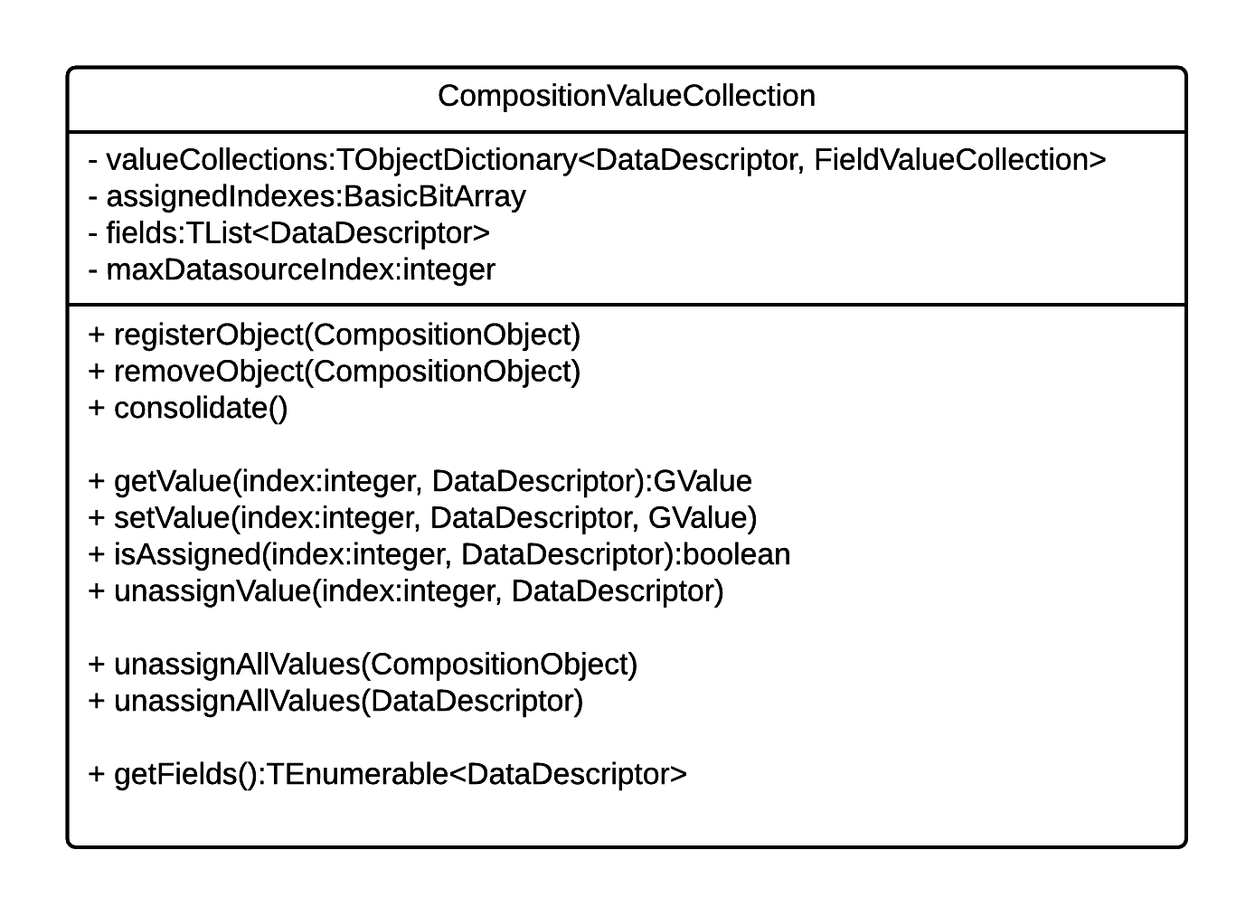
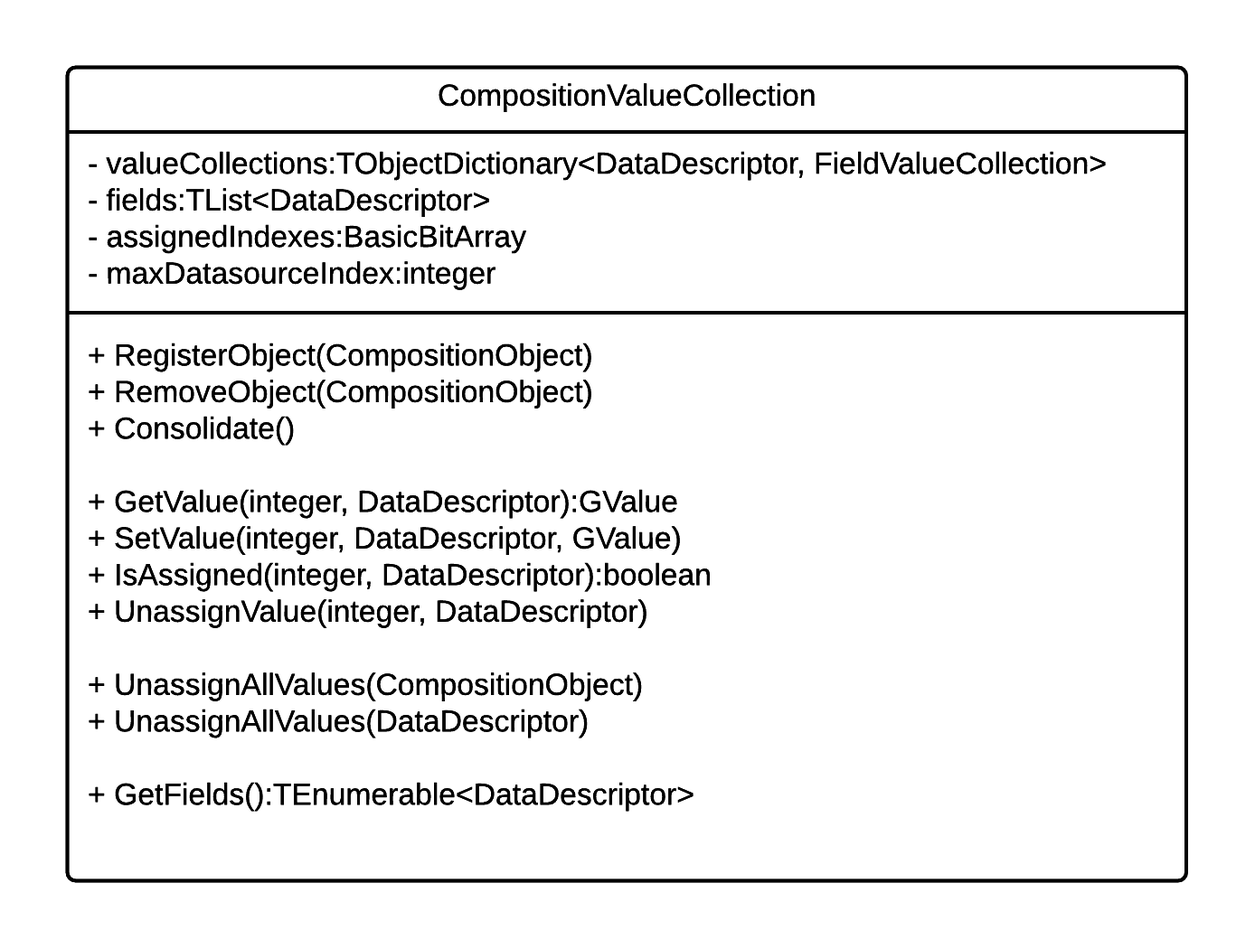
tete

diff --git a/implementation/column-store.tex b/implementation/column-store.tex
@@ -1,20 +1,33 @@
 \chapter{Part I: Column Store}
 \label{chap:column-store}
-% Tell how we want to reduce memory and how database technology comes to the rescue
-For the first part of this thesis, our goal is to reduce memory footprint such that client memory requirements can be relaxed. Reduced memory usage are also likely to increase performance due to increased data locality and the cost of memory management. Inspired by the challenges with the current solution which we saw in Section \ref{sec:Challenges with the current solution}, we proceed to use techniques from the field of Database Technology to reduce memory footprint and increase data locality.
 
-% Tell why we pick a column store 
-We choose to implement a column store. The reason for this is two-fold. First, as we saw in Section \ref{sub:Row Stores Vs Column Stores}, columns are inherently more compressible. Column stores is, hence, better suited to test our hypothesis and reduce memory footprint than a row-store. Second, the cases where \genus~has experienced performance issues are in situations where a column store is better suited than a row store, for instance on lookup index generation and filter operations.
+In this chapter, we modify how \gap~represents data internally by replacing the original row storage format with a column store. We see how it successfully reduces memory consumption and load times for the \tpch.
 
-% Tell why we didn't pick a row store
-We believe that transactional processing, where a row store is more suited, will not suffer from using a column-store. On create, update, and delete operations, there constraint checks, validation and memory operations that will make the overhead looking up in multiple columns neglible. Last, row stores mighht rely on indexes that are costly to maintain. Column-stores normally do not need such indexes, because operations on entire columns are efficient \cite{Plattner2014-fr}
+This chapter makes up the first out of four main iterations in the design and experiment part of this research. As mentioned in the introduction, we aim to reduce memory consumption in the first iterations of the research.
 
 \clearpage
 
-\section{CompositionValueCollection}
-\label{sec:CompositionValueCollection}
+\section{Introduction}
+\label{sec:Introduction}
+% Tell how we want to reduce memory and how database technology comes to the rescue
+In the first part of this thesis, we aim to reduce memory footprint such that memory client memory requirements can be relaxed. As we saw in Section \ref{sec:Compression}, lower memory usage are likely to increase performance because most database processes are memory-bound. Moreover, we hypothesize that memory management is expensive and that the number of allocations, as well as the size of the allocated memory chunks, should be reduced. Inspired by the techniques used by read-optimized databases in Chapter \ref{chap:olap} and motivated by the challenges in \gap, we change how data is represented internally in the platform.
+
+% tell why we picked a column store
+We choose to implement a column store, which we read about in Section \ref{sec:Column Storage}. The reason for this is two-fold. First, as we saw in the literature study, columns are inherently more compressible. Hence, a column store is better suited to reduce memory consumption and to test our hypothesis about the costs of memory management. Second, the cases where \genus~has experienced performance issues are in situations where a column store is better suited than a row store, for instance on join and filter operations.
+
+% Tell why we did not pick a row store
+We believe that conventional transactional processing in \gap, where a row store might be better suited, will not suffer from using a column store. There is much overhead on create, update, and delete operations, like constraint checks, data validation, and memory allocations that will make the column store overhead negligible. Also, a row store might require index structures to accommodate certain operations; indexes which, as we have seen in Section \ref{sub:Row Stores vs Column Stores}, are costly to maintain.
+
+\section{Implementation}
+\label{sec:Implementation}
+\todo{Go over entire Implementation section}
+
+In this section, we explain how a column store is implemented in \gap~by introducing data source indexes and replacing \cn{CompositionObjectValueCollection}.
+
+\subsection{CompositionValueCollection}
+\label{sub:CompositionValueCollection}
 % Lineout the challenges
-As we saw in Section \ref{Challenges in Genus App Platform}, one of the challenges in \gap~is the \cn{CompositionObjectValueCollection} class that not only holds the data belonging to each object, but also pointers to the data descriptors. Although this class is flexible because it is self-contained, and can be passed among objects to copy values, for most cases, references to the data descriptors does not generally need to be stored per data collection. 
+As we saw in Section \ref{sec:Challenges in Genus App Platform}, one of the challenges in \gap~is the \cn{CompositionObjectValueCollection} class that not only holds the data belonging to each object, but also pointers to the data descriptors. Although this class is flexible because it is self-contained, and can be passed among objects to copy values, for most cases, references to the data descriptors does not need to be stored per data collection. 
 
 % Conceptually what is done
 \begin{figure}
@@ -26,16 +39,18 @@ As we saw in Section \ref{Challenges in Genus App Platform}, one of the challeng
     \end{subfigure}
     \begin{subfigure}{1.0\textwidth}
         \includegraphics[width=\textwidth]{img/gap-bb-columns.png}
-        \caption{Column store implementation with \cn{CompositionValueColletion} and \cn{FieldValueCollection}. All objects in a data source point to the same value collection, and access data using its \cn{DatasourceIndex} which indicates the row number in the columns}
+        \caption{Column store implementation with \cn{CompositionValueColletion} and \cn{FieldValueCollection}. All objects in a data source point to the same value collection, and access data using its datasource index, or row identifier, that indicates which column index holds the data.}
         \label{fig:gap-bb-columns}
     \end{subfigure}
     \caption{Comparison of the original implementation and the column store implementation.}
     \label{fig:gap-storage-comparison}
 \end{figure}
-In our column store, we plan to replace the \cn{CompositionObjectValueCollection} pointer in each \cn{CompositionObject} with a pointer to a \cn{CompositionValueCollection} and an integer, \cn{DatasourceIndex}, that indicates which position in the data source the object has. All objects within a data source has a pointer to the same \cn{CompositionValueCollection}. This means that composition objects no longer will query its own data collection for values, but rather one common data collection used by all objects. To access a certain value, both \cn{DataDescriptor} and \cn{DatasourceIndex} is required to indicate column and row respectively. A comparison of the old and the new implementation is seen in \ref{fig:gap-storage-comparison}.
+In our column store, we plan to replace the \cn{CompositionObjectValueCollection} pointer in each \cn{CompositionObject} with a pointer to a \cn{CompositionValueCollection} and an integer, \cn{DatasourceIndex}, that indicates which position in the data source the object has. The data source variable can be thought of as a row identifier, which we studied in Section \ref{sub:Row Identifiers and Tuple Materialization}. All objects within a data source has a pointer to the same \cn{CompositionValueCollection}. This means that composition objects no longer will query its own data collection for values, but rather one common data collection used by all objects. To access a certain value, both \cn{DataDescriptor} and \cn{DatasourceIndex} is required to indicate column and row respectively. A comparison of the old and the new implementation is seen in \ref{fig:gap-storage-comparison}.
+
+\todo{section on tuple materialization?}
 
 % How it impacts memory
-In Section \ref{sub:Excessive Amount Of Pointers}, we saw how a data source with objects with 15 properties each needed 32 pointers, or 256 bytes, per objects just for data and data access. Now, this number is reduced to 17 pointers and an integer, which is 140 bytes. Hence, we save 45\% memory by using our new system.
+In Section \ref{sub:Excessive Amount Of Pointers}, we saw how a data source with objects with 15 properties each needed 32 pointers, or 256 bytes, per objects just for data and data access. Now, this number is reduced to 17 pointers and an integer, which is 140 bytes. Hence, we have the potential to save 45\% memory by using our new system.
 
 % CompositionObjectValueCollection still exists
 Even though the original \cn{CompositionObjectValueCollection} was discarded as the main storage structure, composition objects can still assemble such structures by querying the \cn{CompositionValueCollection}. This is used in object cloning and to transfer data across different data sources in different parts of the application \todo{Stemmer dette?}.
@@ -47,45 +62,48 @@ The \cn{CompositionValueCollection} is a class type. The class diagram is shown 
 
 The main methods in the \cn{CompositionValueCollection} class is the \fn{setValue} and \fn{getValue} methods. These functions respectivel set and get \cn{GValues} for a data descriptor and a datasource index. In these operations, the correct column, or \cn{FieldValueCollection}, is looked up in a dictionary, and the index is passed along to the column to get or set the value. If no column exist for a data descriptor, it is created. \fn{isAssigned} and \fn{unassignValue} works similarly. We study the unassigned semantic in Section \ref{sub:Unassigned Values}. 
 
-Datasource indexes are assigned by passing composition objects to the  \fn{registerObject} function. A private variable \vn{maxDatasourceIndex} is used to keep track on the maximum index handed out so far. When an object is received, this variable is incremented and the object is assigned that value. In addition to this, a bitmap \fn{assignedIndexes} is kept to bookkeep which indexes has objects connected to them. When \fn{removeObject} is called, the bit for that index is unset in \fn{assignedIndexes}. In addition, all values corresponding to that object are unassigned. Currently, the \fn{assignedIndexes} bitmap is not used to lookup the first available bit, since this triggers a linear search on every insertion. We discuss this further in the chapter conclusion.
+Datasource indexes are assigned by passing composition objects to the  \fn{registerObject} function. A private variable \vn{maxDatasourceIndex} is used to keep track on the maximum index handed out so far. When an object is received, this variable is incremented, and the object is assigned that value. In addition to this, a bitmap \fn{assignedIndexes} is kept to bookkeep which indexes has objects connected to them. When \fn{removeObject} is called, the bit for that index is unset in \fn{assignedIndexes}. Also, all values corresponding to that object are unassigned. Currently, the \fn{assignedIndexes} bitmap is not used to lookup the first available bit, since this triggers a linear search on every insertion. We discuss this further in the chapter conclusion.
 
 In addition to the above methods, a \cn{CompositionValueCollection} has the ability to unassign an entire row or column by passing in a \cn{CompositionObject} or \cn{DataDescriptor} respectively. We see later in this research where such methods are used.
 
-The \fn{Consolidate} function is called by the data source when it is done loading, and is meant to be an operation where the column store restructures and maximizes space utilization. We see how the columns are affected by this operation in the section about growth strategy, Section \ref{sec:Growth Strategy}.
+The \fn{Consolidate} function is called by the data source when it is done loading and is meant to be an operation where the column store restructures and maximizes space utilization. We see how the columns are affected by this operation in the section about growth strategy, Section \ref{sec:Growth Strategy}.
 
 
-\section{FieldValueCollection}
-\label{sec:FieldValueCollection}
-\afigure{img/FieldValueCollection.png}{\cn{FieldValueCollection} class diagram.}{fig:FieldValueCollection}{0.9}
+\subsection{FieldValueCollection}
+\label{sub:FieldValueCollection}
+\afigure{img/FieldValueCollection.png}{\cn{FieldValueCollection} class diagram.}{fig:FieldValueCollection}{0.55}
+
 A column is implemented as a \cn{FieldValueCollection} class, and is an index based list structure that automatically handles reallocation. \cn{GValue}s are stored in a \cn{TArray<GValue>}. This array structure was picked based on the performance benchmark in Appndix \ref{app:array-types}. A class diagram for the \cn{FieldValueCollection} is found in Figure \ref{fig:FieldValueCollection}.
 
 Setting a value to \vn{null} has different semantics than \fn{UnassignValue}. The latter means that there has previously been a value present, but is now removed for performance reasons. This functionality is implemented using a bitmap, \cn{BasicBitArray}, which is based on \delphi~\cn{TBits} type. \todo{Stemmer dette om Unassigned values?}
 
 \subsection{Growth Strategy}
 \label{sub:Growth Strategy}
-Since we used native dynamic arrays, we control the array allocation size. For every reallocation, we risk that the entire array needs to be copied from one part of the memory to another. For this reason, one should be generous when allocating, ideally allocate the correct size immediately. However, since we read a stream of data objects, we are not sure how large our buffers should until the very end. 
+Since we used native dynamic arrays, we control the array allocation size. For every reallocation, we risk that the entire array needs to be copied from one part of the memory to another. For this reason, one should be generous when allocating, ideally, allocate the correct size immediately. However, since we read a stream of data objects, we are not sure how large our buffers should until the very end. 
 
-\afigure{img/gap-growth-strategy.png}{Growth strategy for buffers. In the load phase, the buffer doubles every time more space is needed. After the load phase, a consolidation is performed which reduces the buffer size to the exact number which are contained in a column.}{fig:gap-growth-strategy}{0.6}
-Therefore, we chose a strategy where we double the buffer size every time we need more space. This way, the number of reallocation operations are kept at a minimum. However, this strategy might result in lots of unused buffer space. We, therefore, add a \fn{Consolidate} function to our column store that resizes all buffers to fit its data. The strategy is depicted in \ref{gap-growth-strategy}.
+\afigure{img/gap-growth-strategy.png}{Growth strategy for buffers. In the load phase, the buffer doubles every time more space is needed. After the load phase, a consolidation is performed which reduces the buffer size to the exact number which is contained in a column.}{fig:gap-growth-strategy}{0.6}
+Therefore, we chose a strategy where we double the buffer size every time we need more space. This way, the number of reallocation operations are kept to a minimum. However, this strategy might result in lots of unused buffer space. We, therefore, add a \fn{Consolidate} function to our column store that resizes all buffers to fit its data. The strategy is depicted in \ref{gap-growth-strategy}.
 
-\section{Modifiying CompositionObject}
-\label{sec:Modifiying CompositionObject}
+\subsection{Modifying CompositionObject}
+\label{sub:Modifying CompositionObject}
 % Change value collections and add index
-In order for the \cn{CompositionObject} class, some some adjustments are made. First and foremost, the \cn{CompositionObjectValueCollection} are replaced with a \cn{CompositionValueCollection} class. All code that access the original structure are rewritten to use the column store, where the datasource index is passed as a parameter. The \cn{CompositionValueCollection} is already created by the datasource, and is sent in as a parameter in the constructor. It must no longer ask its value collection, it must send itself and its datasource index into the GetValue. It no longer holds ownership to a collection, it has a pointer to a value collection shared by all composition objects.
+In order for the \cn{CompositionObject} class, some some adjustments are made. First and foremost, the \cn{CompositionObjectValueCollection} are replaced with a \cn{CompositionValueCollection} class. All code that accesses the original structure are rewritten to use the column store, where the data source index is passed as a parameter. The \cn{CompositionValueCollection} is already created by the data source, and is sent in as a parameter in the constructor. It must no longer ask its value collection; it must send itself and its data source index into the GetValue. It no longer holds ownership to a collection but has a pointer to a value collection shared by all composition objects.
 
 % Constructor and destructor calls
 Second, \fn{RegisterObject} is called within the constructor such that the \cn{CompositionObject} get a datasource index. Analogously, \fn{RemoveObject} is called in the destructor.
 
 % Adapt to the existing value collections with adapts and clone
-The class is extended by creating a \fn{CloneValueCollection} that creates a row in the original format. Similarly, a method \fn{AdoptValueCollection} is created to fill inn data from a row structure.
+The class is extended by creating a \fn{CloneValueCollection} that creates a row in the original format. Similarly, a method \fn{AdoptValueCollection} is set up to fill in data from a row structure.
 
-\section{Test results}
-\label{sec:Test results}
-In this section we test our implementation using Benchmark \ref{bm:q1}, the \textit{TPC-H Q1 Data Load Benchmark}, and Benchmark \ref{bm:write}, the \textit{Write Benchmark}. The first one is run mainly to check whether memory footprint has been reduced, and the second one to see if write performance has been affected by the column store. Full benchmark details are found in Appendix \ref{app:Benchmarks}.
+\section{Results}
+\label{sec:Results}
+We test the changes done in this iteration by using Benchmark \ref{bm:q1}, the \textit{TPC-H Q1 Data Load Benchmark}. We use this benchmark to see whether memory footprint has been reduced. We are also curious to see the performance impact on data load time, lookup index generation (join), and source measure lookup. To see whether our changes has caused negative effects on write performance, we also run Benchmark \ref{bm:write}, the \textit{Write Benchmark}. 
 
-\subsection{TPC-H Result}
-\label{sub:TPC-H Result}
-Benchmark \ref{bm:q1}, \textit{TPC-H Q1 Data Load Benchmark}, was run with the original and the new column-store implementation with scaling factors 0.01 and 0.1. Each configuration was run three times, and the average of the runs is reported. Only three tests were run due to time constraints. However, all results was within 15 \% of the average value.
+Full benchmark details are found in Appendix \ref{app:bm}.
+
+\subsection{TPC-H Q1 Data Load Benchmark}
+\label{column-store:q1}
+Benchmark \ref{bm:q1}, \textit{TPC-H Q1 Data Load Benchmark}, was run with the original and the new column-store implementation with scaling factors 0.01 and 0.1. Each configuration was run three times, and the average of the runs is reported. Only three tests were run due to time constraints. However, all results were within 15 \% of the average value.
 
 \begin{table}
     \centering
@@ -168,7 +186,7 @@ We also see that source measure looukup is also hurt by the new column store imp
 
 \subsection{Write Benchmark}
 \label{sub:Write Benchmark}
-In order to see how the write speed is affected by our new implementation, we run Benchmark \ref{bm:write}, the \textit{Write Benchmark} on the original implementation and on the column store implementation. Each run modified 1000 elements. Due to time constraints, there were only three runs per implementation. However, most measurements was within 15 \% of the average.
+To see how the write speed is affected by our new implementation, we run Benchmark \ref{bm:write}, the \textit{Write Benchmark} on the original implementation and the column store implementation. Each run modified 1000 elements. Due to time constraints, there were only three runs per implementation. However, most measurements were within 15 \% of the average.
 
 \begin{table}
     \begin{tabularx}{\textwidth}{X | X X X X}
@@ -185,26 +203,29 @@ The results are presented in Table \ref{tab:non-blackbox-write}. There are not m
 
 \section{Discussion}
 \label{sec:Discussion}
-We conclude that our hypothesis is right, pointers take up a lot of space. By doing no other changes but removing the data descriptor pointers for all objects, the memory used per object is reduced by 38 \% and 30 \% respectively for scaling factors 0.01 and 0.1 respectively. 
+We see that the memory used per object in the \textit{TPC-H Q1 Data Load Benchmark} is reduced by 30 \% and 38 \% for scaling factors 0.1 and 0.01 respectively. We attribute the memory reduction to the column store, and how it reduces the number of pointers needed to represent data in a data source.
 
-We are excited to see that data source load time has been drastically reduced. We are unsure why the load times have been reduced by as much as 63 \%, but this might strengthen the proof on the hypothesis that memory management is expensive. Due to our growth strategy, the number of allocations are drastically reduced. The original implementation allocated one \cn{CompositionObjectValueCollection} for each object. The new implementation only double all column capacity 20 times during a data load. Secondly, if the process is memory bound, reduced memory usage correlates directly with improved performance. Finally, our new implementation might have improved memory locality and cache hit rate. 
+We are excited to observe that the data source load time is drastically reduced as a consequence of our new \cn{CompositionValueCollection} and \cn{FieldValueCollection} classes. This observation strengthens our hypothesis that memory management is expensive: The original implementation allocated one row-structure per object, whereas the doubling strategy in our column store keeps the number of allocations at a minimum. Moreover, the reduced load time in Benchmark \ref{bm:q1}~might also imply that reduced memory usage is directly correlated with performance and that our new implementation has better memory locality and cache hit rate.
 
-Both lookup index creating and source measure lookup operations suffer from the new implementation, where the time it takes to perform the operation has been increased by roughly 30 \% and 100 \% respectively. Both operations read values intensively from the columns, so it is likely that \fn{GetValue} in \cn{CompositionValueCollection} as it is in \cn{CompositionObjectValueCollection}. This can be caused by the dictionary lookup to find the correct column, or extra checks to ensure capacity or for \vn{null} values.
+Both read operations, lookup index generation and source measure lookup, suffer from the new column store implementation. On these operations, the time it takes to perform the operation has been increased by 30 \% and 100 \% respectively. Since both operations read values intensively from composition objects in tight loops, we believe the test result implies that the \fn{GetValue} function in the column store is not as efficient as the original. This can be caused by the dictionary lookup to find the correct column, or by the extra checks to ensure capacity or for \nil~values.
 
-Benchmark \ref{bm:write} yielded equal results for both implementations, even though most operations in Benchmark \ref{bm:q1} were slowed down by the column store. However, put in perspective, the operations from the \textit{TPC-H Q1 Load Benchmark} use almost as long time on 600,000 elements that \textit{Write Benchmark} uses on 1,000 elements. This indicates that there is a severe overhead in object iteration and value modification that is unrelated to how the data storage layout.
+The fact that Benchmark \ref{bm:write}, the \textit{Write Benchmark}, shows that write performance is not affected by the column store, strengthens our hypothesis that the column overhead is negligible in such situations. Data modification is expensive in \gap. Modifying 1000 elements in the write benchmark takes roughly five times longer than generating a lookup index for 60,000 rows, which indicates that there is a severe overhead in object iteration and value modification unrelated to the data storage layout.
 
-We are unsure why there is a different space saving for different scaling factors. However, for the other measures, scaling factors seem to scale as they should. It might be caused by the caching and value reuse in load mechanisms in \gap, and that different data size is affected by the total number of rows. The data might also be skewed, which means SF0.01 has more values that can be reused. Either way, we see that both original and column store presentation is affected similarly, which means that the effect is unrelated to our work.
+We are unsure why different scaling factors yielded a different number of bytes per \lineitem. It might be caused by the caching and value reuse mechanisms used by the data load module in \gap. Data in SF0.1 might have a different data distribution than SF0.01. Either way, both the original and column store implementations are affected by this phenomenon, which makes it likely that it is unrelated to our work.
 
-\section{Chapter Conclusion}
-\label{sec:Chapter Conclusion}
-We conclude that there is a large potential in column storage in terms of memory footprint, and that load time is reduced with our new column store implementation. In total, the \gd~application that loads the \tpch~ with a scaling factor of 0.1 have reduced memory usage from 2685 MB to 1777 MB, and the load time is reduced by more than half.
+\section{Iteration Conclusion}
+\label{sec:Iteration Conclusion}
+We conclude this iteration by stating that there is a large potential in column storage regarding memory footprint and load times. Memory used per \lineitem~in the \textit{TPC-H Q1 Data Load Benchmark} has been reduced by 30 - 38 \%, and the time it takes to load all data in this benchmark by 67 \%. Write performance, tested with Benchmark \ref{bm:write}, has not been affected by the new implementation.
 
-Still, most operations in our benchmarks perform worse using the \cn{CompositionValueCollection} class. Especially the source measure lookup operation, which shows that generating an array of double precision floating point values takes twice as long using our new column store implementation.
+Still, both read-intense operations tested in Benchmark \ref{bm:q1}, especially the source measure lookup operation. Here, the time it takes to generate an array of double precision numbers for a data descriptor is doubled with the column store. We believe this changes are caused by a \fn{GetValue} function less efficient than the original.
 
-We believe even more memory can be saved, and load time improved, by optimizing storage formats, applying compression, and removing more pointers. We do this in Chapter \ref{chap:part2}. We are also confident that the join and source measure lookup operations can be rewritten to exploit the new storage format. We look into this in Chapter \ref{chap:part3}.
+This iteration lays the groundwork for further investigation and to check whether database technologies and column store can help \mdd-tools' ability to handle and analyse large datasets. We believe even more memory can be saved by optimizing storage formats, applying compression, and removing more pointers. We do this in the next iterations, Chapter \ref{chap:storage-format} and Chapter \ref{chap:compression}. 
+
+Column storage comes with several benefits, like vectorized execution, late materialization, and the ability to be pipelined by a modern CPU. We have not yet utilized the full potential of the \cn{CompositionValueCollection} and \cn{FieldValueCollection} classes, so far we have only used them to reduce the number of pointers in \gap. We believe the mentioned techniques can be applied to the read-intense operations of Benchmark \ref{bm:q1}. We study this in Chapter \ref{chap:operations}.
 
 \subsection{Future Work}
 \label{sub:Future Work}
-Now, we only assign new datasource indexes by incrementing, however we have put in a bitmap for assigned flags. We have disregarded this structure due to the linear search to find the first open bit, and that neither of our benchmarks inserts and removes certain objects. Future work might investigate the effects of using \fn{OpenBit}, and perhaps separate between loading and normal state. The \fn{Consolidate} function might also be used to compress the data and make sure all columns are used.
+With our current solution, new data source indexes, or row identifiers, are assigned by incrementing a counter in \cn{CompositionValueCollection}. This implies that if objects are removed from a data source, no new objects will be assigned the data source indexes that has become available. As seen in Figure \ref{fig:CompositionValueCollection}, we propose a \textit{bitmap for assigned indexes}, \vn{assignedFlags}. Future work might investigate the effects of using this bitmap, and the \fn{OpenBit} utility function, to assign indexes to a data source. Since \fn{OpenBit} is a linear-time operation, one might consider an object loading state: Indexes are assigned by using a counter if the data source is fed with data from the database, and once this operation has completed, the \vn{assignedFlags} bitmap is used.
 
-In addition, we have observed that the bytes per \texttt{LINEITEM} is increased on larger data sets, and we believe this is caused by the caching and value reuse mechanisms in the data source loader. However, larger datasets should be able to reuse more values, not less. We therefore encourage studying this peculiar effect in future work.
+
+%In addition, we have observed that the bytes per \texttt{LINEITEM} is increased on larger data sets, and we believe this is caused by the caching and value reuse mechanisms in the data source loader. However, larger datasets should be able to reuse more values, not less. We therefore encourage studying this peculiar effect in future work.

diff --git a/misc/vars.tex b/misc/vars.tex
@@ -23,6 +23,8 @@
 \newcommand{\chbench}{\term{CH-benCHmark}}
 \newcommand{\mdd}{\term{Model-Driven Development}}
 \newcommand{\mde}{\term{Model-Driven Engineering}}
+\newcommand{\nil}{\vn{nil}}
+\newcommand{\lineitem}{\texttt{nil}}
 
 % Products
 \newcommand{\ibm}{\pn{IBM DB2 with BLU Acceleration}}
